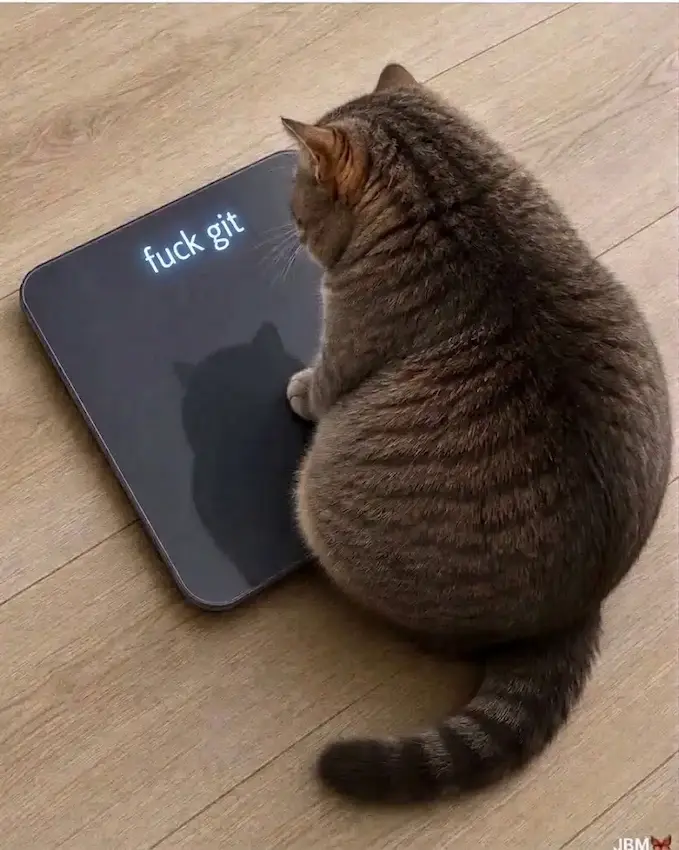
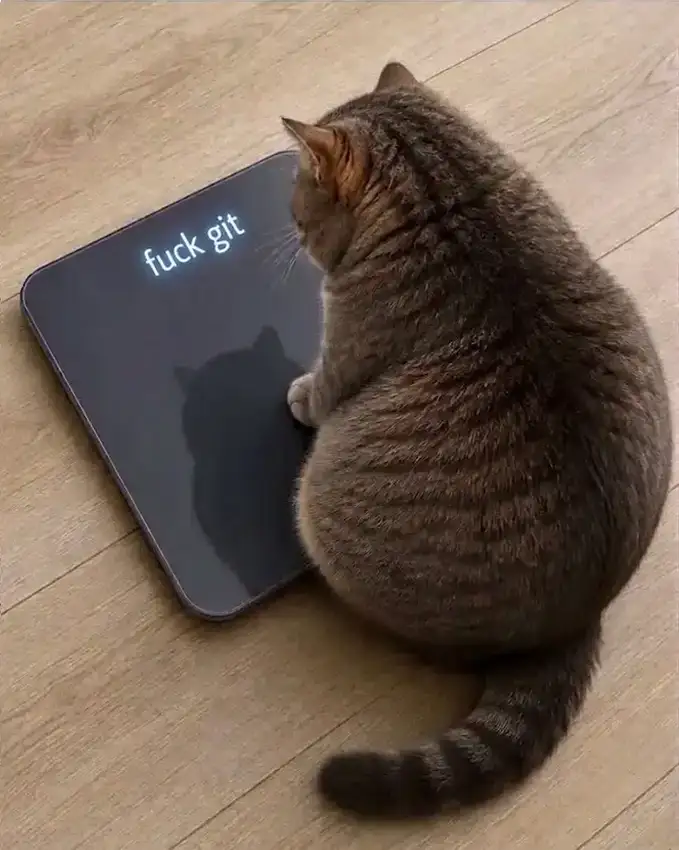
added light-theme variables

diff --git a/assets/css/style.css b/assets/css/style.css
@@ -1,5 +1,5 @@
 body {
-    background-color: var(--blue-100);
+    background-color: var(--bg-main);
     font-family: var(--font-base);
 
     display: flex;
@@ -9,7 +9,7 @@ body {
 header {
     padding: 1rem;
     padding-inline: var(--page-spacing);
-    background-color: var(--blue-95);
+    background-color: var(--bg-secondary);
     position: relative;
 }
 
@@ -17,7 +17,7 @@ header {
     max-width: 90rem;
     margin: auto;
 
-    color: var(--white);
+    color: var(--text-main);
     font-family: 'Fredoka', sans-serif;
     font-weight: var(--font-600);
     font-size: 2rem;
@@ -35,72 +35,6 @@ header {
     display: flex;
     align-items: center;
     gap: 0.5rem;
-}
-
-.burger-btn {
-    width: 32px;
-    height: 32px;
-    padding: 0;
-    background: none;
-    border: none;
-
-    position: absolute;
-    top: 53%;
-    right: var(--page-spacing);
-    transform: translateY(-50%);
-
-    display: flex;
-    align-items: center;
-    justify-content: center;
-
-    cursor: pointer;
-
-    @media (min-width: 768px) {
-        display: none;
-    }
-}
-
-.nav-links {
-    padding: 1.5rem;
-    background-color: var(--blue-95);
-
-    position: absolute;
-    top: 100%;
-    left: 0;
-    right: 0;
-
-    display: none;
-    flex-direction: column;
-    align-items: center;
-    gap: 1.5rem;
-
-    list-style: none;
-    padding: 0;
-    margin: 0;
-
-    &.is-open {
-        display: flex;
-    }
-
-    @media (min-width: 768px) {
-        display: flex;
-        flex-direction: row;
-        position: static;
-        padding: 0;
-        background: none;
-    }
-}
-
-.nav-link {
-    color: var(--white);
-    font-family: var(--font-base);
-    font-weight: var(--font-500);
-    font-size: 1rem;
-    text-decoration: none;
-
-    &:hover {
-        opacity: 0.8;
-    }
 }
 
 .flower-animation {
@@ -198,7 +132,7 @@ main {
 }
 
 .photo-album h1 {
-    color: var(--white);
+    color: var(--text-main);
     font-family: var(--font-base);
     font-weight: var(--font-800);
     font-size: clamp(2.5rem, 1.814rem + 1.429vi, 3.5rem);
@@ -232,7 +166,7 @@ main {
         width: 100%;
         height: auto;
         aspect-ratio: 1 / 1;
-        border: 3px solid #194553e1;
+        border: 3px solid var(--img-border);
         border-radius: 16px;
         object-fit: cover;
 
@@ -241,7 +175,7 @@ main {
         transition: all 0.2s ease-in-out;
 
         &:hover {
-            border-color: #6bc1e185;
+            border-color: var(--img-border-hover);
             scale: 1.05;
             filter: brightness(1.1) saturate(1.1);
         }
@@ -267,7 +201,7 @@ main {
 .dialog-content {
     max-width: 28rem;
     padding: 2rem 1rem;
-    background-color: var(--blue-95);
+    background-color: var(--bg-secondary);
     border-radius: 40px;
 
     display: flex;
@@ -295,7 +229,7 @@ main {
 .dialog-title {
     padding-bottom: 3rem;
 
-    color: var(--white);
+    color: var(--text-main);
     font-weight: var(--font-700);
     font-size: 1rem;
 
@@ -313,6 +247,7 @@ main {
     height: 30px;
     padding: 0;
 
+    color: var(--text-main);
     background: none;
     border: none;
     border-radius: 100px;
@@ -324,11 +259,11 @@ main {
     cursor: pointer;
 
     &:hover {
-        background-color: #124658;
+        background-color: var(--dialog-close-hover);
     }
 
     &:active {
-        background-color: var(--blue-90);
+        background-color: var(--dialog-close);
     }
 }
 
@@ -343,7 +278,8 @@ main {
 .dialog-next {
     width: 45px;
     height: 45px;
-    background-color: rgba(253, 91, 79, 0.1);
+    color: var(--dialog-step);
+    background-color: var(--dialog-step-bg);
     border-radius: 100px;
     border: none;
 
@@ -354,7 +290,7 @@ main {
     cursor: pointer;
 
     &:hover {
-        background-color: rgba(253, 91, 79, 0.2);
+        background-color: var(--dialog-step-hover);
     }
 
     @media (min-width: 768px) {
@@ -370,7 +306,7 @@ main {
 .dialog-counter {
     min-width: 3rem;
 
-    color: var(--white-10);
+    color: var(--text-main);
     font-weight: var(--font-500);
     font-size: 1rem;
     text-align: center;
@@ -399,11 +335,11 @@ main {
 }
 
 footer {
-    background-color: var(--blue-95);
+    background-color: var(--bg-secondary);
     padding-bottom: 1.25rem;
 
     p {
-        color: var(--gray-40);
+        color: var(--footer-copyr);
         font-size: 0.9rem;
 
         display: flex;
@@ -420,7 +356,7 @@ footer {
 }
 
 .footer-headline {
-    color: var(--white);
+    color: var(--text-main);
     font-family: 'Fredoka', sans-serif;
     text-align: center;
 
@@ -472,7 +408,7 @@ footer {
     }
 
     35%, 50% {
-        transform: translateY(15px);
+        transform: translateY(13.5px);
     }
 }
 
@@ -482,7 +418,7 @@ footer {
     }
 
     35%, 50% {
-        transform: translateY(-15px);
+        transform: translateY(-13.5px);
     }
 }
 

diff --git a/index.html b/index.html
@@ -11,9 +11,9 @@
     <script src="assets/js/data.js" defer></script>
     <script src="assets/js/script.js" defer></script>
   </head>
-  <body>
+  <body class="light-mode">
     <header>
-      <nav class="header-nav">
+      <div class="header-nav">
         <div class="logo-group">
           <svg class="flower-animation" width="41" height="39" viewBox="0 0 41 39" fill="none" xmlns="http://www.w3.org/2000/svg" aria-hidden="true">
             <path
@@ -51,20 +51,7 @@
           </svg>
           <span>Fotogram</span>
         </div>
-
-        <button class="burger-btn" type="button" aria-label="Open burger-menu" aria-expanded="false" aria-controls="main-nav">
-          <svg width="24" height="24" viewBox="0 0 24 24" fill="none" xmlns="http://www.w3.org/2000/svg" aria-hidden="true">
-            <path d="M3 6H21" stroke="white" stroke-width="2" stroke-linecap="round" />
-            <path d="M3 12H21" stroke="white" stroke-width="2" stroke-linecap="round" />
-            <path d="M3 18H21" stroke="white" stroke-width="2" stroke-linecap="round" />
-          </svg>
-        </button>
-
-        <ul class="nav-links" id="main-nav">
-          <li><a href="#" class="nav-link">theme switch</a></li>
-          <li><a href="#" class="nav-link">no idea</a></li>
-        </ul>
-      </nav>
+      </div>
     </header>
 
     <main>
@@ -81,7 +68,7 @@
                   <svg width="14" height="14" viewBox="0 0 14 14" fill="none" xmlns="http://www.w3.org/2000/svg" aria-hidden="true">
                     <path
                       d="M6.575 7.975L1.675 12.875C1.49167 13.0583 1.25833 13.15 0.975 13.15C0.691667 13.15 0.458333 13.0583 0.275 12.875C0.0916667 12.6917 0 12.4583 0 12.175C0 11.8917 0.0916667 11.6583 0.275 11.475L5.175 6.575L0.275 1.675C0.0916667 1.49167 0 1.25833 0 0.975C0 0.691667 0.0916667 0.458333 0.275 0.275C0.458333 0.0916667 0.691667 0 0.975 0C1.25833 0 1.49167 0.0916667 1.675 0.275L6.575 5.175L11.475 0.275C11.6583 0.0916667 11.8917 0 12.175 0C12.4583 0 12.6917 0.0916667 12.875 0.275C13.0583 0.458333 13.15 0.691667 13.15 0.975C13.15 1.25833 13.0583 1.49167 12.875 1.675L7.975 6.575L12.875 11.475C13.0583 11.6583 13.15 11.8917 13.15 12.175C13.15 12.4583 13.0583 12.6917 12.875 12.875C12.6917 13.0583 12.4583 13.15 12.175 13.15C11.8917 13.15 11.6583 13.0583 11.475 12.875L6.575 7.975Z"
-                      fill="white"
+                      fill="currentColor"
                     />
                   </svg>
                 </button>
@@ -100,7 +87,7 @@
                 <svg width="22" height="19" viewBox="0 0 22 19" fill="none" xmlns="http://www.w3.org/2000/svg" aria-hidden="true">
                   <path
                     d="M12.8028 0.292893C12.4123 -0.0976311 11.7791 -0.0976311 11.3886 0.292893C10.9981 0.683417 10.9981 1.31658 11.3886 1.70711L18.1673 8.48584H1C0.447715 8.48584 0 8.93355 0 9.48584C0 10.0381 0.447715 10.4858 1 10.4858H18.1662L11.3886 17.2635C10.9981 17.654 10.9981 18.2871 11.3886 18.6777C11.7791 19.0682 12.4123 19.0682 12.8028 18.6777L21.2614 10.2191C21.4582 10.0364 21.5814 9.77553 21.5814 9.48584C21.5814 9.29694 21.529 9.12027 21.438 8.96957C21.3969 8.90137 21.3469 8.83702 21.2881 8.77817L12.8028 0.292893Z"
-                    fill="#FD5B4F"
+                    fill="currentColor"
                   />
                 </svg>
               </button>
@@ -109,7 +96,7 @@
                 <svg width="22" height="19" viewBox="0 0 22 19" fill="none" xmlns="http://www.w3.org/2000/svg" aria-hidden="true">
                   <path
                     d="M12.8028 0.292893C12.4123 -0.0976311 11.7791 -0.0976311 11.3886 0.292893C10.9981 0.683417 10.9981 1.31658 11.3886 1.70711L18.1673 8.48584H1C0.447715 8.48584 0 8.93355 0 9.48584C0 10.0381 0.447715 10.4858 1 10.4858H18.1662L11.3886 17.2635C10.9981 17.654 10.9981 18.2871 11.3886 18.6777C11.7791 19.0682 12.4123 19.0682 12.8028 18.6777L21.2614 10.2191C21.4582 10.0364 21.5814 9.77553 21.5814 9.48584C21.5814 9.29694 21.529 9.12027 21.438 8.96957C21.3969 8.90137 21.3469 8.83702 21.2881 8.77817L12.8028 0.292893Z"
-                    fill="#FD5B4F"
+                    fill="currentColor"
                   />
                 </svg>
               </button>

diff --git a/assets/css/global.css b/assets/css/global.css
@@ -18,7 +18,6 @@ html {
 body {
     min-height: 100vh;
     min-height: 100dvh;
-    line-height: 1.5;
 }
 
 img, picture, video, canvas, svg {
@@ -37,23 +36,36 @@ p, h1, h2, h3, h4, h5, h6 {
 /* #endregion */
 
 :root {
-    --blue-90: #0D3240;
-    --blue-95: #09212A;
-    --blue-100: #06171E;
-
-    --red-40: #FD5B4F;
-
-    --gray-40: #a8b3b8;
-
-    --white-10: #F5F5F5;
-    --white: #FFFFFF;
+    --bg-main: #06171E;
+    --bg-secondary: #09212A;
+    --footer-copyr: #a8b3b8;
+    --text-main: #FFFFFF;
+    --img-border: #194553e1;
+    --img-border-hover: #6bdde185;
+    --dialog-step: #FD5B4F;
+    --dialog-step-bg: #fd5b4f1a;
+    --dialog-step-hover: #fd5b4f33;
+    --dialog-close-hover: #124658;
+    --dialog-close: #0D3240;
 
     --font-base: 'Figtree', sans-serif;
-
     --font-500: 500;
     --font-600: 600;
     --font-700: 700;
     --font-800: 800;
-
     --page-spacing: clamp(1rem, 5vi, 4rem);
+}
+
+.light-mode {
+    --bg-secondary: #e7d8bc;
+    --bg-main: #ede8d0d7;
+    --dialog-close: #09212A;
+    --footer-copyr: #2A4350;
+    --text-main: #000000;
+    --img-border: #b68c64e1;
+    --img-border-hover: #e1966b85;
+    --dialog-step-bg: #f4f5f871;
+    --dialog-step-hover: #e4a84f38;
+    --dialog-close-hover: #e2b48cc4;
+    --dialog-close: #c7966ce1;
 }
